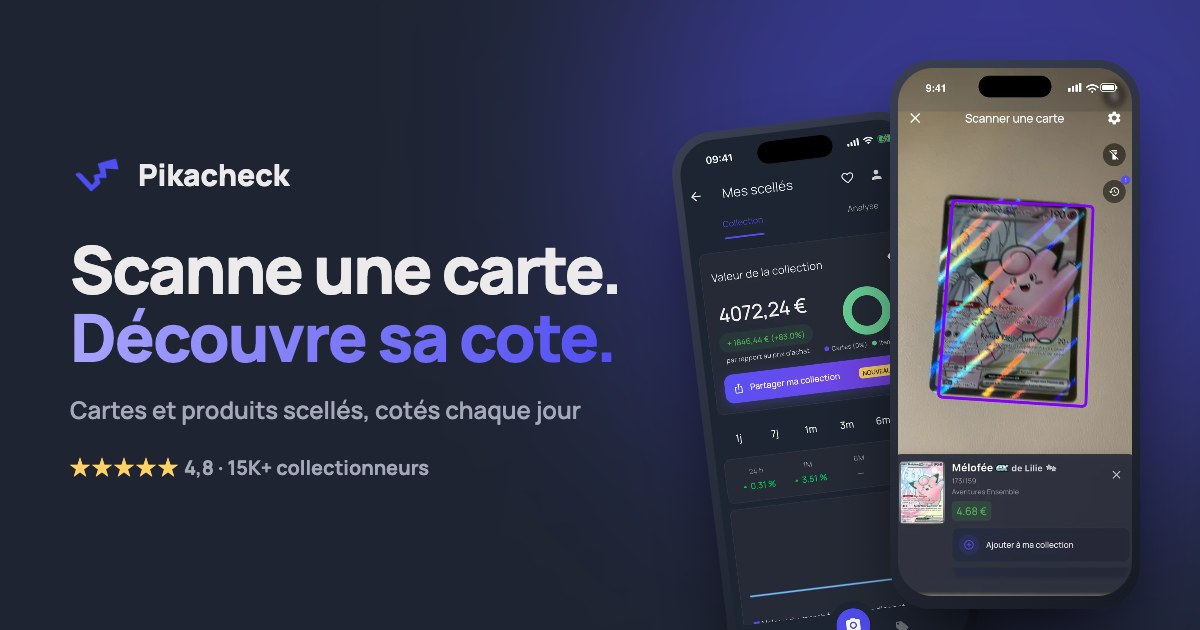
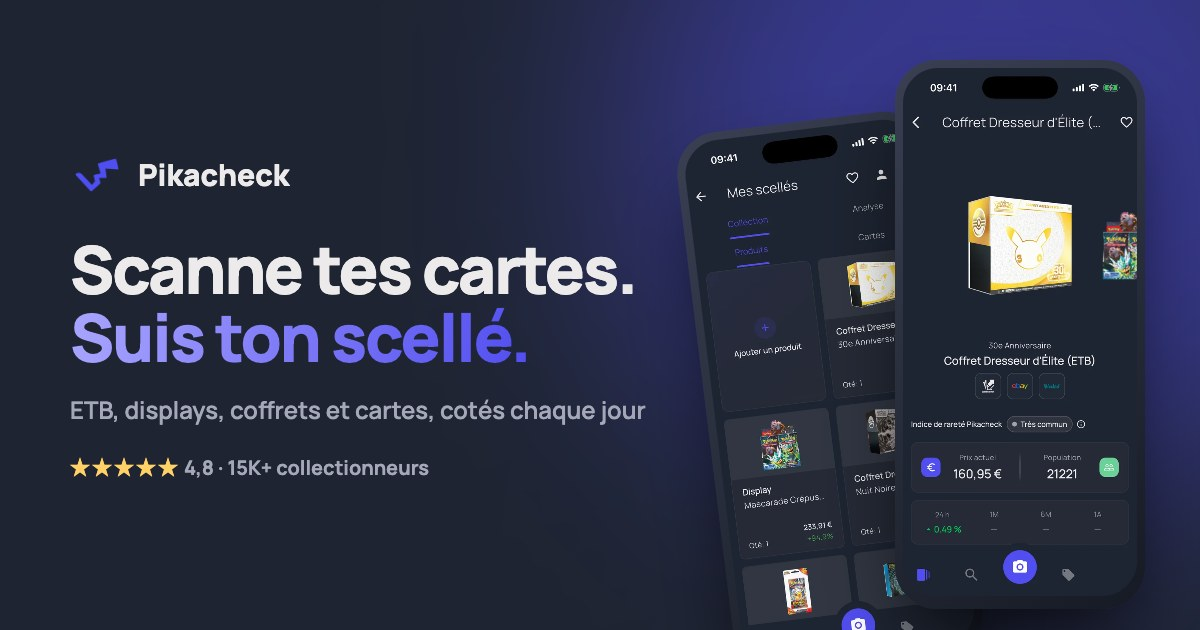
Accueil : le scellé au même niveau que le scan — titre, hero scanner + ETB, étapes, bloc produits scellés juste après le scanner, image de partage
Claude-Session: https://claude.ai/code/session_019pybTQ1ZQ32C8HVNfqtP7P

Changed region(s): [[0.555, 0.0905, 0.9558, 1.0], [0.0617, 0.3921, 0.5242, 0.6032], [0.0617, 0.6333, 0.555, 0.6937]]

diff --git a/index.html b/index.html
@@ -4,8 +4,8 @@
   <meta charset="UTF-8">
   <meta name="viewport" content="width=device-width, initial-scale=1.0, viewport-fit=cover">
 
-  <title>Pikacheck – Scanne, suis la cote et partage ta collection Pokémon</title>
-  <meta name="description" content="Pikacheck, l'app des collectionneurs Pokémon : scanne tes cartes, suis la valeur de tes cartes et produits scellés chaque jour, partage ta collection et repère les bons plans (enchères eBay, restocks Amazon). Gratuit sur iPhone, iPad et Android.">
+  <title>Pikacheck – Cote des cartes et produits scellés Pokémon (ETB, displays, coffrets)</title>
+  <meta name="description" content="Pikacheck, l'app des collectionneurs Pokémon : scanne tes cartes et suis la cote de tes produits scellés (ETB, displays, coffrets, boosters) chaque jour, partage ta collection et repère les bons plans (enchères eBay, restocks Amazon). Gratuit sur iPhone, iPad et Android.">
   <meta name="robots" content="index, follow">
   <link rel="canonical" href="https://app.pikacheck.com/">
 
@@ -13,8 +13,8 @@
   <meta property="og:site_name" content="Pikacheck">
   <meta property="og:locale" content="fr_FR">
   <meta property="og:url" content="https://app.pikacheck.com/">
-  <meta property="og:title" content="Pikacheck – Ta collection Pokémon, à sa vraie valeur">
-  <meta property="og:description" content="Scanne tes cartes, suis la cote de tes cartes et scellés chaque jour, partage ta collection et repère les bons plans. Gratuit sur iPhone et Android.">
+  <meta property="og:title" content="Pikacheck – Tes cartes et ton scellé Pokémon, cotés chaque jour">
+  <meta property="og:description" content="Scanne tes cartes, suis la cote de tes ETB, displays et coffrets chaque jour, partage ta collection et repère les bons plans. Gratuit sur iPhone et Android.">
   <meta property="og:image" content="https://app.pikacheck.com/assets/images/og-image.jpg">
   <meta property="og:image:width" content="1200">
   <meta property="og:image:height" content="630">
@@ -62,6 +62,7 @@
   <link rel="preconnect" href="https://fonts.gstatic.com" crossorigin>
   <link href="https://fonts.googleapis.com/css2?family=Manrope:wght@500;600;700;800&display=swap" rel="stylesheet">
   <link rel="preload" as="image" href="/assets/app/scan.webp">
+  <link rel="preload" as="image" href="/assets/app/item.webp">
 
   <style>
     :root {
@@ -140,9 +141,8 @@
       background: linear-gradient(145deg, #2c3048, #11131f); box-shadow: 0 40px 80px -20px rgba(0,0,0,.7), inset 0 0 0 1.5px rgba(255,255,255,.08);
     }
     .phone img { width: 100%; height: 100%; object-fit: cover; border-radius: 38px; background: #1e2431; }
-    .hero-visual .p1 { left: 50%; top: 10px; margin-left: -145px; z-index: 3; width: 290px; }
-    .hero-visual .p2 { left: 2%; top: 90px; transform: rotate(-8deg); z-index: 2; }
-    .hero-visual .p3 { right: 2%; top: 90px; transform: rotate(8deg); z-index: 2; }
+    .hero-visual .p2 { left: 4%; top: 20px; transform: rotate(-6deg); z-index: 3; width: 280px; }
+    .hero-visual .p3 { right: 4%; top: 80px; transform: rotate(6deg); z-index: 2; width: 280px; }
     .float {
       position: absolute; z-index: 4; display: flex; align-items: center; gap: 10px; padding: 12px 16px; border-radius: 18px;
       background: rgba(37,42,55,.9); backdrop-filter: blur(14px); -webkit-backdrop-filter: blur(14px);
@@ -151,8 +151,8 @@
     }
     .float i { width: 34px; height: 34px; border-radius: 11px; display: grid; place-items: center; font-style: normal; font-size: 17px; }
     .float small { display: block; color: var(--muted); font-weight: 600; font-size: 12px; }
-    .f1 { left: -4%; bottom: 120px; }
-    .f2 { right: -2%; top: 60px; animation-delay: -3s; }
+    .f1 { right: -2%; bottom: 70px; }
+    .f2 { left: -4%; top: 330px; animation-delay: -3s; }
     @keyframes bob { 50% { transform: translateY(-10px); } }
 
     @media (max-width: 960px) {
@@ -163,16 +163,14 @@
       .hero-visual { height: 520px; max-width: 520px; width: 100%; margin: 10px auto 0; }
       .phone { width: 210px; border-radius: 36px; padding: 7px; }
       .phone img { border-radius: 30px; }
-      .hero-visual .p1 { width: 232px; margin-left: -116px; }
-      .hero-visual .p2 { left: 0; top: 70px; }
-      .hero-visual .p3 { right: 0; top: 70px; }
-      .f1 { left: 0; bottom: 70px; } .f2 { right: 0; top: 20px; }
+      .hero-visual .p2 { left: 6%; top: 10px; width: 220px; }
+      .hero-visual .p3 { right: 6%; top: 60px; width: 220px; }
+      .f1 { right: 0; bottom: 40px; } .f2 { left: 0; top: 260px; }
     }
     @media (max-width: 480px) {
       .hero-visual { height: 440px; }
       .phone { width: 170px; }
-      .hero-visual .p1 { width: 196px; margin-left: -98px; }
-      .hero-visual .p2 { left: -24px; } .hero-visual .p3 { right: -24px; }
+      .hero-visual .p2 { left: 2%; width: 178px; } .hero-visual .p3 { right: 2%; width: 178px; }
       .float { font-size: 12.5px; padding: 9px 12px; }
       .float i { width: 28px; height: 28px; font-size: 14px; }
     }
@@ -373,8 +371,8 @@
       <div class="wrap">
         <div class="reveal">
           <span class="pill"><b>GRATUIT</b> iPhone, iPad et Android</span>
-          <h1>Scanne une carte.<br><span class="grad">Découvre sa cote.</span></h1>
-          <p class="lead">Reconnue et chiffrée en 2 secondes. Pikacheck suit la valeur de tes cartes et de tes produits scellés chaque jour, et te montre combien vaut ta collection.</p>
+          <h1>Scanne tes cartes.<br><span class="grad">Suis ton scellé.</span></h1>
+          <p class="lead">Cartes reconnues et chiffrées en 2 secondes. ETB, displays, coffrets et boosters cotés chaque jour. Pikacheck te montre combien vaut toute ta collection, et ta plus-value.</p>
           <div class="stores">
             <a class="store" href="https://apps.apple.com/fr/app/pikacheck-tracker-alertes/id6749660231?utm_source=website&utm_medium=hero&utm_campaign=download" data-store="ios" data-loc="hero">
               <svg viewBox="0 0 24 24" fill="currentColor" aria-hidden="true"><path d="M16.37 12.6c-.02-2.28 1.86-3.38 1.95-3.43-1.06-1.55-2.71-1.77-3.3-1.79-1.4-.14-2.74.83-3.45.83-.71 0-1.8-.81-2.97-.79-1.53.02-2.94.89-3.72 2.25-1.59 2.76-.41 6.840 1.14 9.08.76 1.1 1.66 2.33 2.84 2.28 1.14-.05 1.57-.74 2.95-.74 1.37 0 1.76.74 2.97.71 1.23-.02 2-1.11 2.75-2.21.87-1.27 1.22-2.5 1.24-2.57-.03-.01-2.38-.91-2.4-3.62zM14.1 5.9c.63-.76 1.050-1.82.93-2.88-.9.04-2 .6-2.65 1.36-.58.67-1.090 1.75-.95 2.79 1.01.08 2.04-.51 2.67-1.27z"/></svg>
@@ -389,10 +387,9 @@
         </div>
 
         <div class="hero-visual reveal" aria-hidden="true">
-          <div class="phone p2"><img src="/assets/app/scelle.webp" alt="" width="640" height="1391"></div>
-          <div class="phone p1"><img src="/assets/app/scan.webp" alt="" width="640" height="1391"></div>
-          <div class="phone p3"><img src="/assets/app/card.webp" alt="" width="640" height="1391"></div>
-          <div class="float f1"><i style="background:rgba(106,208,151,.18)">📈</i><div><span style="color:var(--green)">+1 846 €</span> de plus-value<small>suivie chaque jour</small></div></div>
+          <div class="phone p2"><img src="/assets/app/scan.webp" alt="" width="640" height="1391"></div>
+          <div class="phone p3"><img src="/assets/app/item.webp" alt="" width="640" height="1391"></div>
+          <div class="float f1"><i style="background:rgba(106,208,151,.18)">📦</i><div>ETB 30e Anniversaire <span style="color:var(--green)">+192 %</span><small>la plus-value de ton scellé</small></div></div>
           <div class="float f2"><i style="background:rgba(81,77,240,.25)">⚡</i><div>Reconnue en 2 s<small>et chiffrée aussitôt</small></div></div>
         </div>
       </div>
@@ -416,8 +413,8 @@
           <h2>Ta collection chiffrée<br>en 3 étapes.</h2>
         </div>
         <div class="steps">
-          <div class="step reveal"><b>1</b><h4>Scanne</h4><p>Pointe ton téléphone sur une carte&nbsp;: elle est reconnue et ajoutée à ta collection.</p></div>
-          <div class="step reveal"><b>2</b><h4>Suis la cote</h4><p>Cartes et produits scellés sont estimés chaque jour, avec ta plus-value.</p></div>
+          <div class="step reveal"><b>1</b><h4>Ajoute</h4><p>Scanne tes cartes, et ajoute tes ETB, displays et coffrets depuis le catalogue.</p></div>
+          <div class="step reveal"><b>2</b><h4>Suis la cote</h4><p>Cartes et scellé sont cotés chaque jour, avec ta plus-value produit par produit.</p></div>
           <div class="step reveal"><b>3</b><h4>Partage</h4><p>Envoie ta collection, tes doubles et ta wishlist en un lien.</p></div>
         </div>
       </div>
@@ -443,50 +440,50 @@
         </div>
 
         <div class="feature rev">
-          <div class="f-media reveal" style="--tint:rgba(52,211,153,.26)">
-            <div class="phone"><img src="/assets/app/scelle.webp" alt="Valeur d'une collection Pokémon et sa plus-value" width="640" height="1391" loading="lazy"></div>
+          <div class="f-media duo reveal" style="--tint:rgba(255,209,102,.22)">
+            <div class="phone"><img src="/assets/app/grid.webp" alt="Produits scellés Pokémon et leur plus-value" width="640" height="1391" loading="lazy"></div>
+            <div class="phone"><img src="/assets/app/item.webp" alt="Fiche d'un ETB Pokémon avec sa cote du jour" width="640" height="1391" loading="lazy"></div>
           </div>
           <div class="f-text reveal">
-            <span class="eyebrow">Valeur</span>
-            <h3>Combien vaut ta collection&nbsp;?</h3>
-            <p>Mise à jour chaque jour, avec ta plus-value par rapport à ce que tu as payé. Tu sais enfin ce que vaut ta passion.</p>
+            <span class="eyebrow">Produits scellés</span>
+            <h3>La cote de ton scellé, chaque jour.</h3>
+            <p>ETB, displays, coffrets, boosters, Pokébox, tins… Chaque produit scellé a sa cote du jour, son historique et sa plus-value. Ajoute-les depuis le catalogue en quelques secondes.</p>
             <ul class="ticks">
-              <li>Valeur totale, mise à jour chaque jour</li>
-              <li>Plus-value par rapport à ton prix d'achat</li>
-              <li>Évolution sur 1 jour, 1 mois… depuis le début</li>
+              <li>Plus de 1 000 produits scellés référencés</li>
+              <li>Plus-value produit par produit, quantités et prix d'achat</li>
+              <li>Repère ceux qui prennent le plus de valeur</li>
             </ul>
           </div>
         </div>
 
         <div class="feature">
-          <div class="f-media duo reveal" style="--tint:rgba(59,130,246,.32)">
-            <div class="phone"><img src="/assets/app/card.webp" alt="Fiche d'une carte Pokémon avec son prix du jour" width="640" height="1391" loading="lazy"></div>
-            <div class="phone"><img src="/assets/app/item.webp" alt="Fiche d'un produit scellé Pokémon avec son prix du jour" width="640" height="1391" loading="lazy"></div>
+          <div class="f-media reveal" style="--tint:rgba(106,208,151,.26)">
+            <div class="phone"><img src="/assets/app/scelle.webp" alt="Valeur d'une collection Pokémon et sa plus-value" width="640" height="1391" loading="lazy"></div>
           </div>
           <div class="f-text reveal">
-            <span class="eyebrow">Cote</span>
-            <h3>La cote de chaque carte et de chaque produit scellé, chaque jour.</h3>
-            <p>Prix du jour, historique et rareté pour les cartes&nbsp;; ETB, displays, coffrets et boosters ont aussi leur cote.</p>
+            <span class="eyebrow">Valeur</span>
+            <h3>Combien vaut ta collection&nbsp;?</h3>
+            <p>Cartes et scellé réunis, mis à jour chaque jour, avec ta plus-value par rapport à ce que tu as payé.</p>
             <ul class="ticks">
-              <li>Prix du jour et historique des prix</li>
-              <li>Population gradée et indice de rareté</li>
-              <li>Liens directs vers Cardmarket, eBay et Vinted</li>
+              <li>Valeur totale, mise à jour chaque jour</li>
+              <li>Part des cartes et du scellé</li>
+              <li>Évolution sur 1 jour, 1 mois… depuis le début</li>
             </ul>
           </div>
         </div>
 
         <div class="feature rev">
-          <div class="f-media reveal" style="--tint:rgba(255,194,61,.2)">
-            <div class="phone"><img src="/assets/app/grid.webp" alt="Produits scellés Pokémon et leur plus-value" width="640" height="1391" loading="lazy"></div>
+          <div class="f-media reveal" style="--tint:rgba(81,77,240,.34)">
+            <div class="phone"><img src="/assets/app/card.webp" alt="Fiche d'une carte Pokémon avec son prix du jour" width="640" height="1391" loading="lazy"></div>
           </div>
           <div class="f-text reveal">
-            <span class="eyebrow">Scellé</span>
-            <h3>Tes produits scellés prennent de la valeur.</h3>
-            <p>Suis la plus-value de chacun de tes ETB, displays et coffrets, et repère ceux qui montent le plus.</p>
+            <span class="eyebrow">Cartes</span>
+            <h3>La cote de chaque carte, chaque jour.</h3>
+            <p>Prix du jour, historique, population gradée et indice de rareté Pikacheck, pour plus de 30 000 cartes.</p>
             <ul class="ticks">
-              <li>Plus-value produit par produit</li>
-              <li>Quantités et prix d'achat</li>
-              <li>Le scellé compte dans la valeur de ta collection</li>
+              <li>Prix du jour et historique des prix</li>
+              <li>Population gradée et indice de rareté</li>
+              <li>Liens directs vers Cardmarket, eBay et Vinted</li>
             </ul>
           </div>
         </div>
@@ -497,7 +494,7 @@
     <section class="wrap">
       <div class="midcta reveal">
         <div>
-          <h3>Découvre ce que vaut ta collection.</h3>
+          <h3>Découvre ce que valent tes cartes et ton scellé.</h3>
           <p>Gratuit · ta première carte scannée en quelques secondes</p>
         </div>
         <a class="btn" href="/download" data-dl="mid">Télécharger gratuitement</a>
